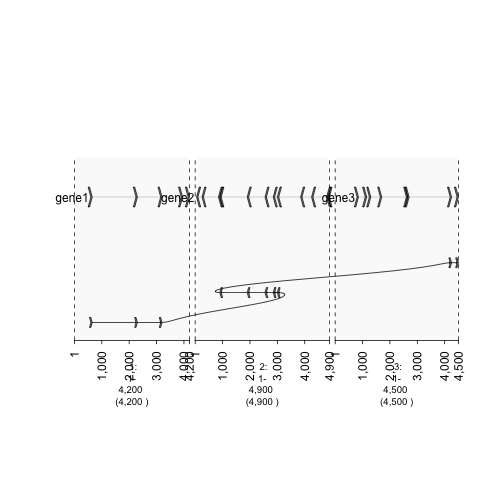
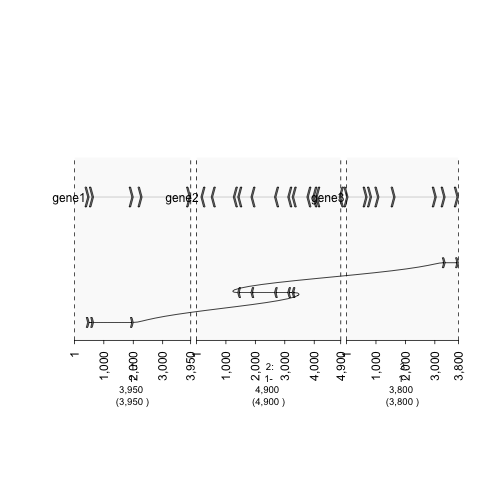
edit vignette

diff --git a/rtdocs/vignetteMutations/vignetteMutations.rst b/rtdocs/vignetteMutations/vignetteMutations.rst
@@ -99,3 +99,22 @@ Vignette Showing How to Graph Mutations
     plot of chunk mutations-plot
 
 
+.. sourcecode:: r
+    
+
+    mut = sample(tiles, 2000, prob = prob, replace = TRUE) 
+    gt.mut = gTrack(mut, circle = TRUE, stack.gap = 100)
+
+
+
+.. sourcecode:: r
+    
+
+    plot(gt.mut, win)
+
+.. figure:: figure/mutations2-plot-1.png
+    :alt: plot of chunk mutations2-plot
+
+    plot of chunk mutations2-plot
+
+
